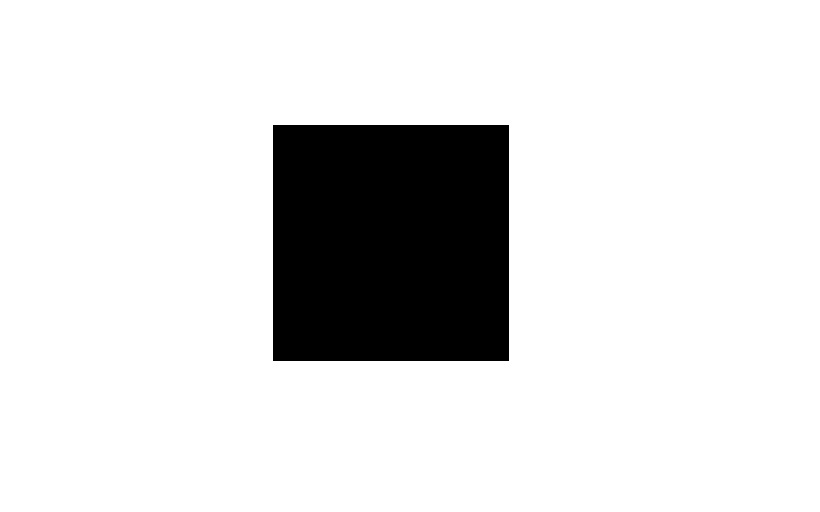
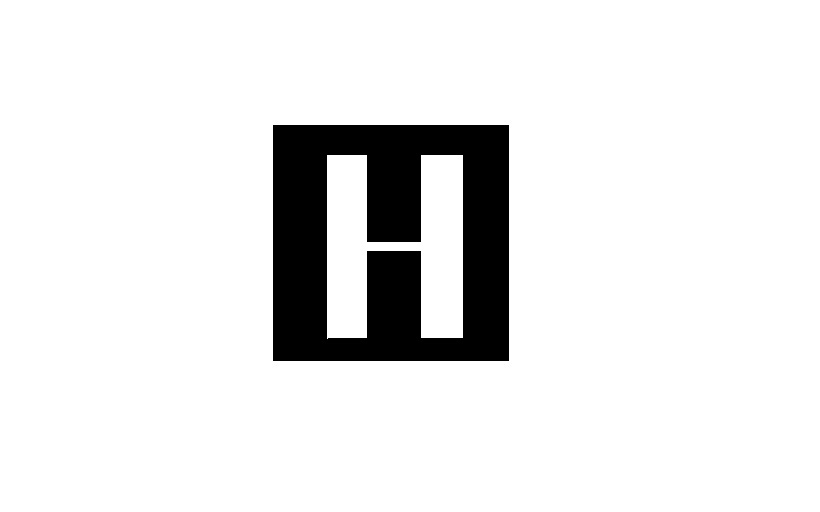
well, gabor filter kinda works. although i'm not sure that's how it's suppossed to work

Changed region(s): [[0.3963, 0.2812, 0.5793, 0.6875]]

diff --git a/CV_Lab1/filtration.cpp b/CV_Lab1/filtration.cpp
@@ -232,10 +232,12 @@ Mat canny(Mat orig, double lower, double upper)
 	return newres;
 }
 
-Mat gabor_filter(Mat orig, double theta) //тета - угол 
+Mat gabor_filter(Mat orig, double theta, double phi, double sigma, double gamma, double lambda) //тета - угол; sigma / lambda примерно равно 0.56 (почему?)
 {
 	Mat gabor(5, 5, CV_64FC1);
-	Mat res;
+	Mat L = getLMatrix(orig);
+	Mat newimg(orig.rows, orig.cols, L.type());
+	newimg = 0;
 	double div = 0;
 	for (int x = -2; x < 3; x++)
 		for (int y = -2; y < 3; y++)
@@ -243,11 +245,29 @@ Mat gabor_filter(Mat orig, double theta) //тета - угол
 			double x_ =  x * cos(theta) + y * sin(theta);
 			double y_ = -x * sin(theta) + y * cos(theta);
 
-			gabor.at<double>(x + 2, y + 2) = 0;
-				//exp(-(i * i + j * j) / (2.0 * sigma * sigma)) / (2.0 * M_PI * sigma * sigma); //not simmetric! 5
+			gabor.at<double>(x + 2, y + 2) = exp(-(x_ * x_ + gamma * gamma * y_ * y_) / (2.0 * sigma * sigma)) * cos(2 * M_PI * x_ / lambda + phi);//not simmetric! 5
 			div += gabor.at<double>(x + 2, y + 2);
 		}
-	return res;
+	gabor /= div;
+
+	for (int i = 0; i < orig.rows; i++)
+		for (int j = 0; j < orig.cols; j++)
+		{
+			for (int x = -2; x < 3; x++)
+				for (int y = -2; y < 3; y++)
+				{
+					if (i + x >= 0 && i + x < orig.rows && j + y >= 0 && j + y < orig.cols)
+					{
+						newimg.at<double>(i, j) += L.at<double>(i + x, j + y) * gabor.at<double>(x + 2, y + 2);
+					}
+				}
+		}
+
+	//std::cout << newimg << std::endl;
+
+
+
+	return newimg;
 }
 
 

diff --git a/CV_Lab1/Source.cpp b/CV_Lab1/Source.cpp
@@ -2,12 +2,6 @@
 #include "filtration.h"
 #include "lab.h"
 
-
-/*#define Xn 95.04
-#define Yn 100.0
-#define Zn 108.88*/
-
-
 using namespace cv;
 
 Mat img_original;
@@ -185,14 +179,10 @@ int main(int argc, char **argv)
 	img_original = img.clone();
 	namedWindow(wName, WINDOW_AUTOSIZE);
 
-
-	//namedWindow("HSV", WINDOW_AUTOSIZE);
-
 	createTrackbar("Hue", wName, &hueSlider, 360, hueFunction);
 	createTrackbar("Saturation", wName, &saturationSlider, 200, saturationFunction);
 	createTrackbar("Value", wName, &valueSlider, 200, valueFunction);
 	createTrackbar("Sigma", wName, &sigmaSlider, 25, sigmaFunction);
-	
 
 	imshow(wName, img);
 
@@ -207,13 +197,12 @@ int main(int argc, char **argv)
 			L_histogram();
 		else if (k == 'g')
 		{
-			//img = gauss_filter(img, 1.0); //sigma trackbar
 			if(sigmaSlider != 0)
 				imshow("Gauss", gauss_filter(img, sigmaSlider));
 		}
 		else if (k == 'G')
 		{
-			imshow("Gabor", gabor_filter(img), M_PI/2);
+			imshow("Gabor", gabor_filter(img, M_PI / 2, 0, 0.5, 0.2, 2));
 		}
 		else if (k == 's')
 		{

diff --git a/CV_Lab1/filtration.h b/CV_Lab1/filtration.h
@@ -9,7 +9,7 @@ Mat gauss_filter(Mat orig, double sigma);
 
 Mat sobel_filter(Mat orig, Mat * grad = NULL); //right now it returns single-channel matrix. Should it be converted to three-channel one?
 
-Mat gabor_filter(Mat orig, double theta);
+Mat gabor_filter(Mat orig, double theta, double phi, double sigma, double gamma, double lambda);
 
 Mat canny(Mat orig, double lower, double upper);
 
